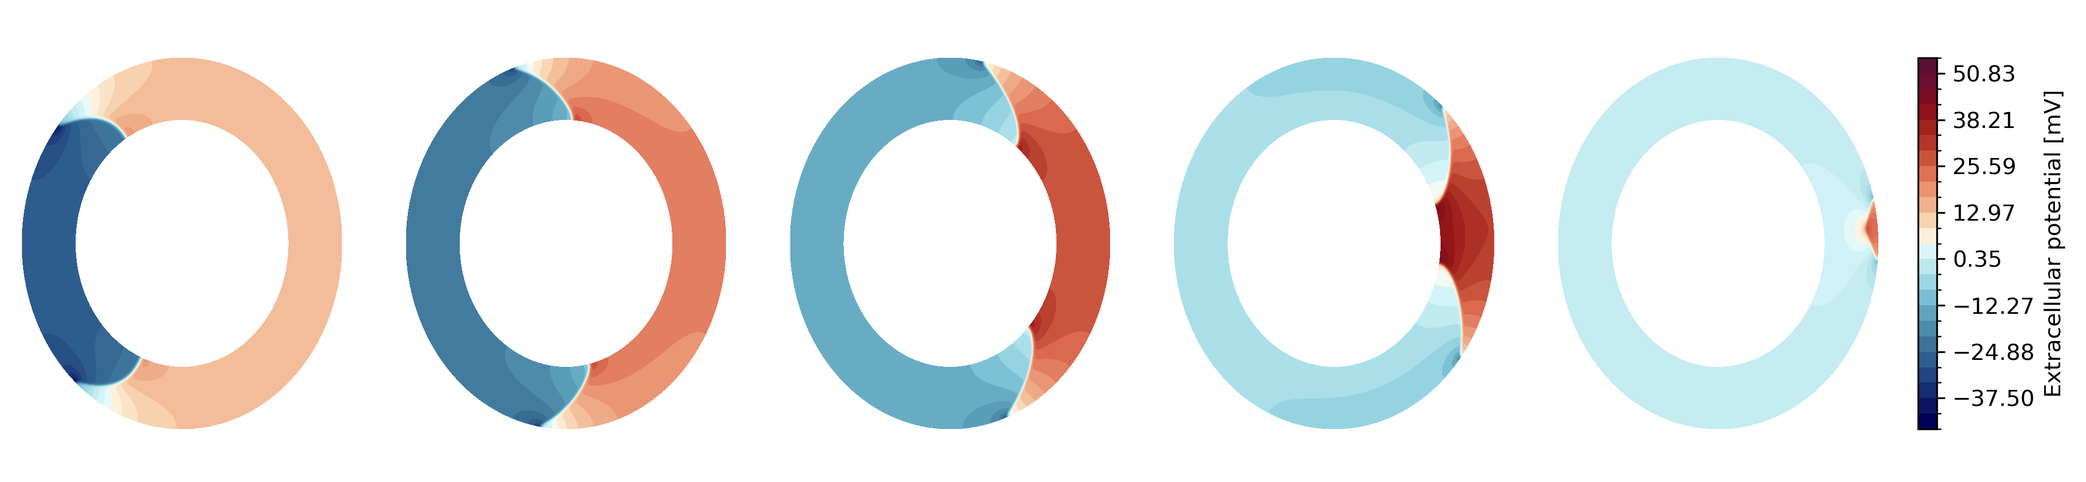
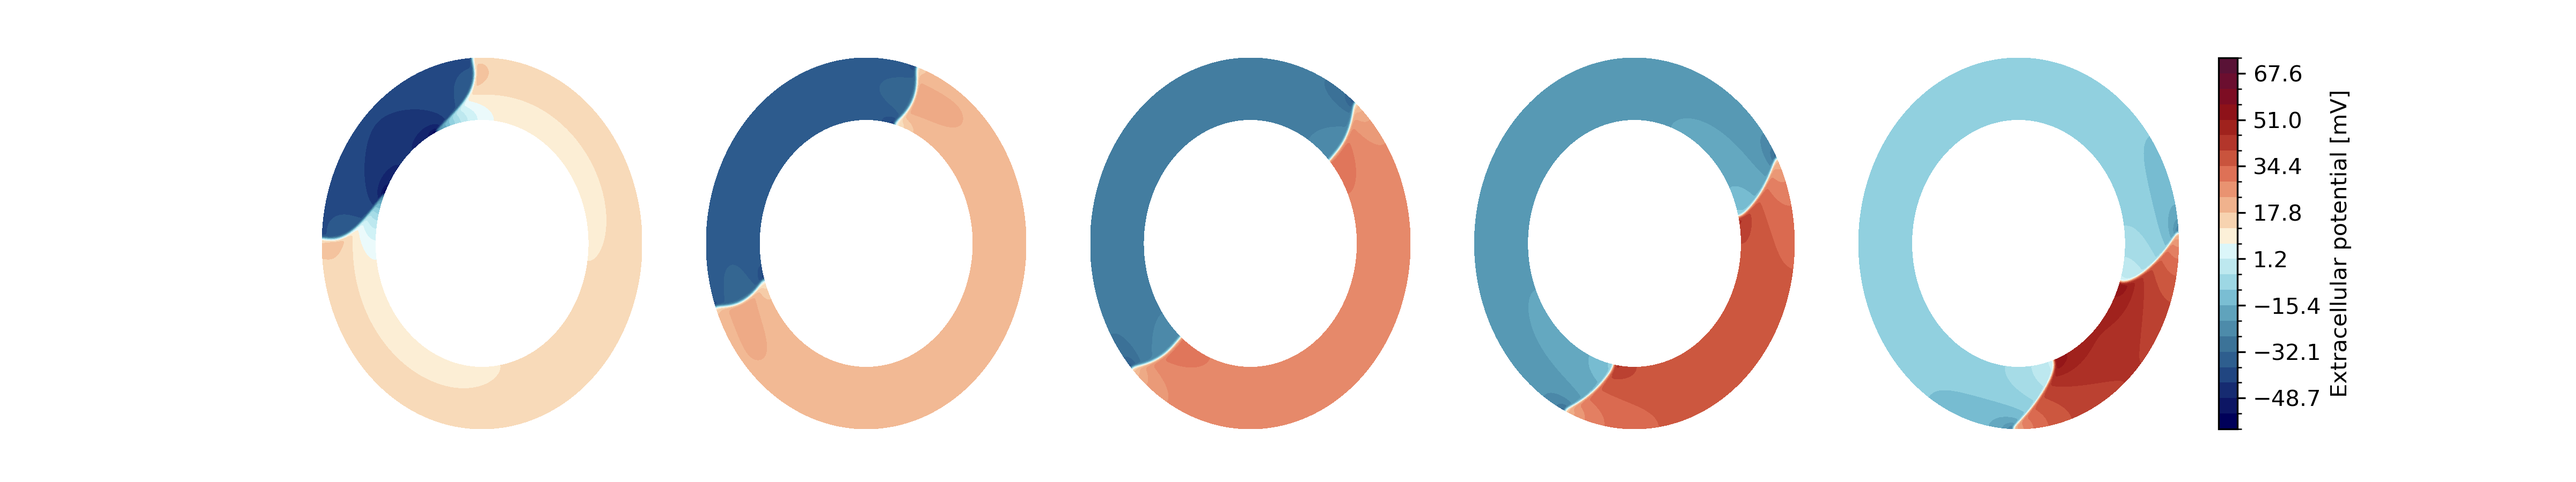
.

diff --git a/data_generation/gen_data.py b/data_generation/gen_data.py
@@ -134,9 +134,9 @@ class GenData:
         # Conductivities (intra- and extracellular)
         lamb_LT = np.random.uniform(self.config["bidomain_cond"]["lamb_LT"][0], self.config["bidomain_cond"]["lamb_LT"][1])
         eps = np.random.uniform(self.config["bidomain_cond"]["eps"][0], self.config["bidomain_cond"]["eps"][1])
-        alpha = np.random.uniform(self.config["bidomain_cond"]["alpha"][0], self.config["bidomain_cond"]["alpha"][1]) 
 
-        sigma_il = np.random.uniform(self.config["bidomain_cond"]["sigma_il"][0], self.config["bidomain_cond"]["sigma_il"][1]) 
+        alpha = self.config["bidomain_cond"]["alpha"]
+        sigma_il = self.config["bidomain_cond"]["sigma_il"]
         
         sigma_it = sigma_il*(1/lamb_LT)**2*((1+alpha*(1-eps))/(1+alpha))
         sigma_el = sigma_il*1/alpha
